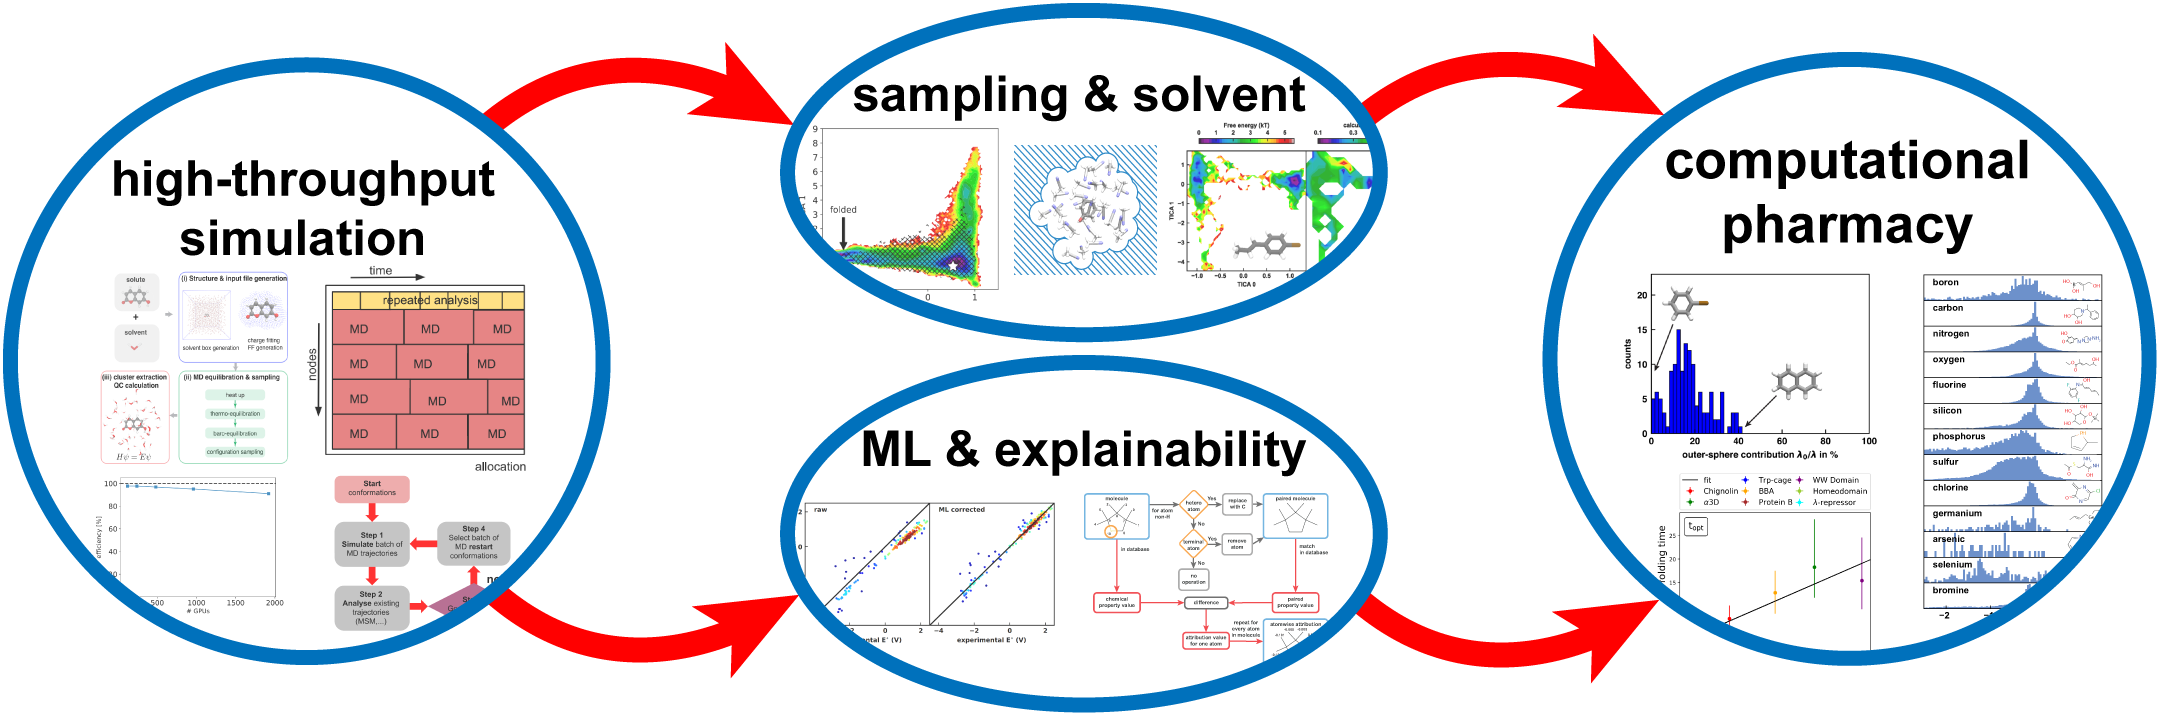
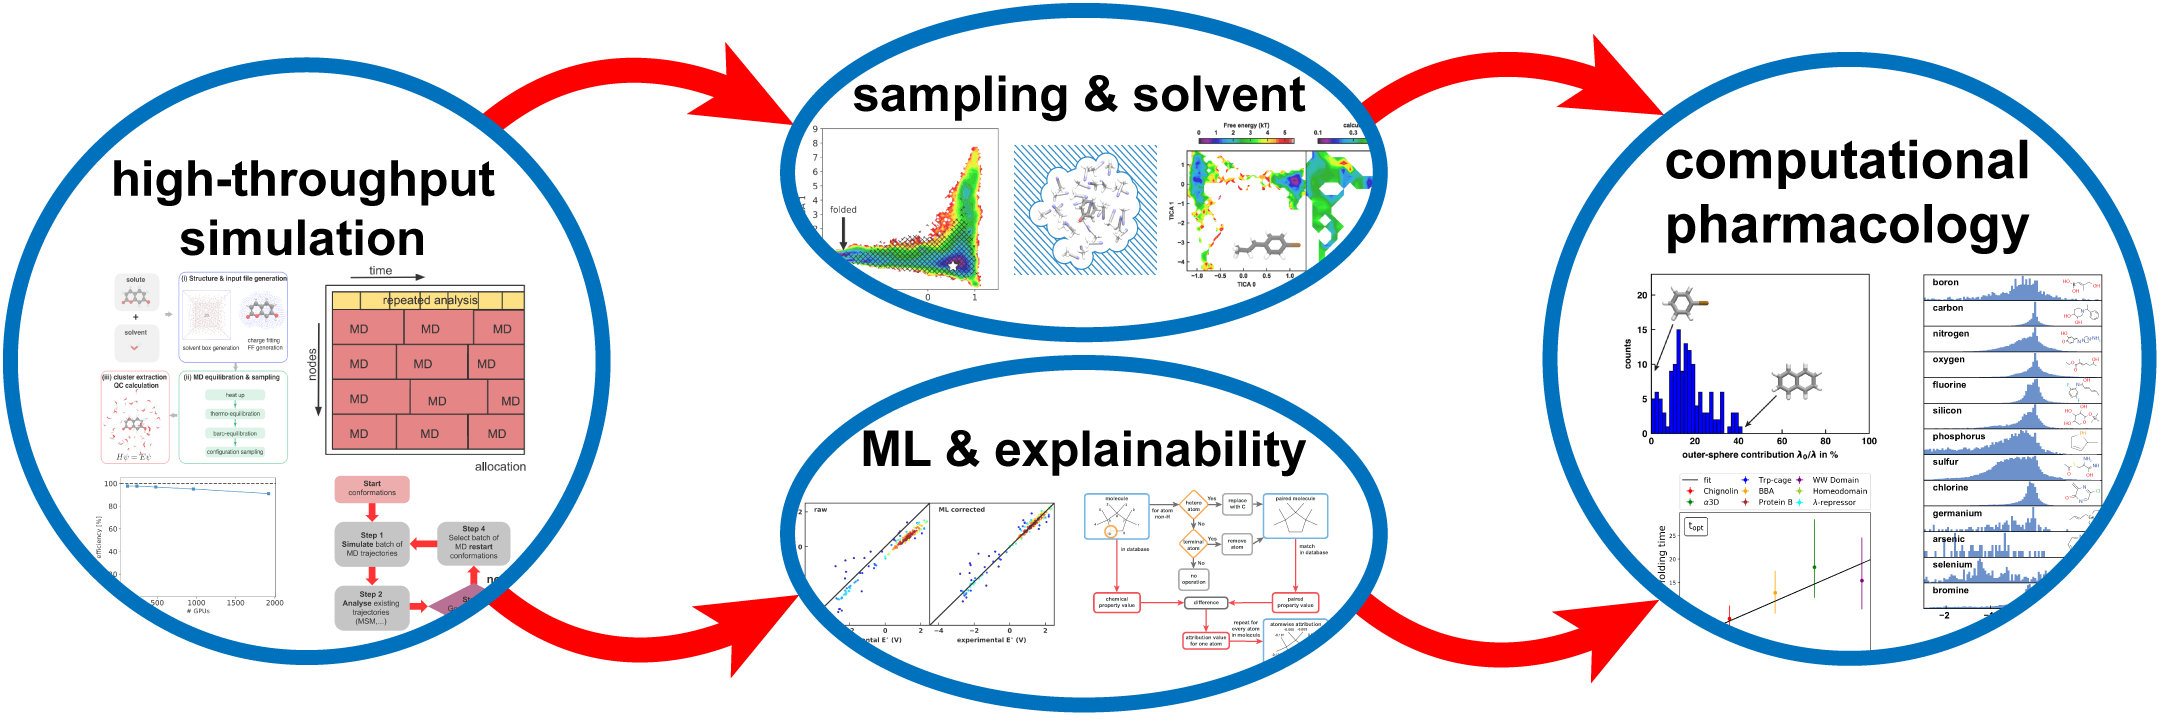
update

Changed region(s): [[0.7444, 0.275, 0.9616, 0.3667]]

diff --git a/_pages/about.md b/_pages/about.md
@@ -2,7 +2,7 @@
 layout: about
 title: Overview
 permalink: /
-subtitle: Computational Pharmacy | High-throughput simulation and explainable machine learning of drug-protein interactions.
+subtitle: Computational Pharmacology | High-throughput simulation and explainable machine learning of drug-protein interactions.
 
 profile:
   align: left
